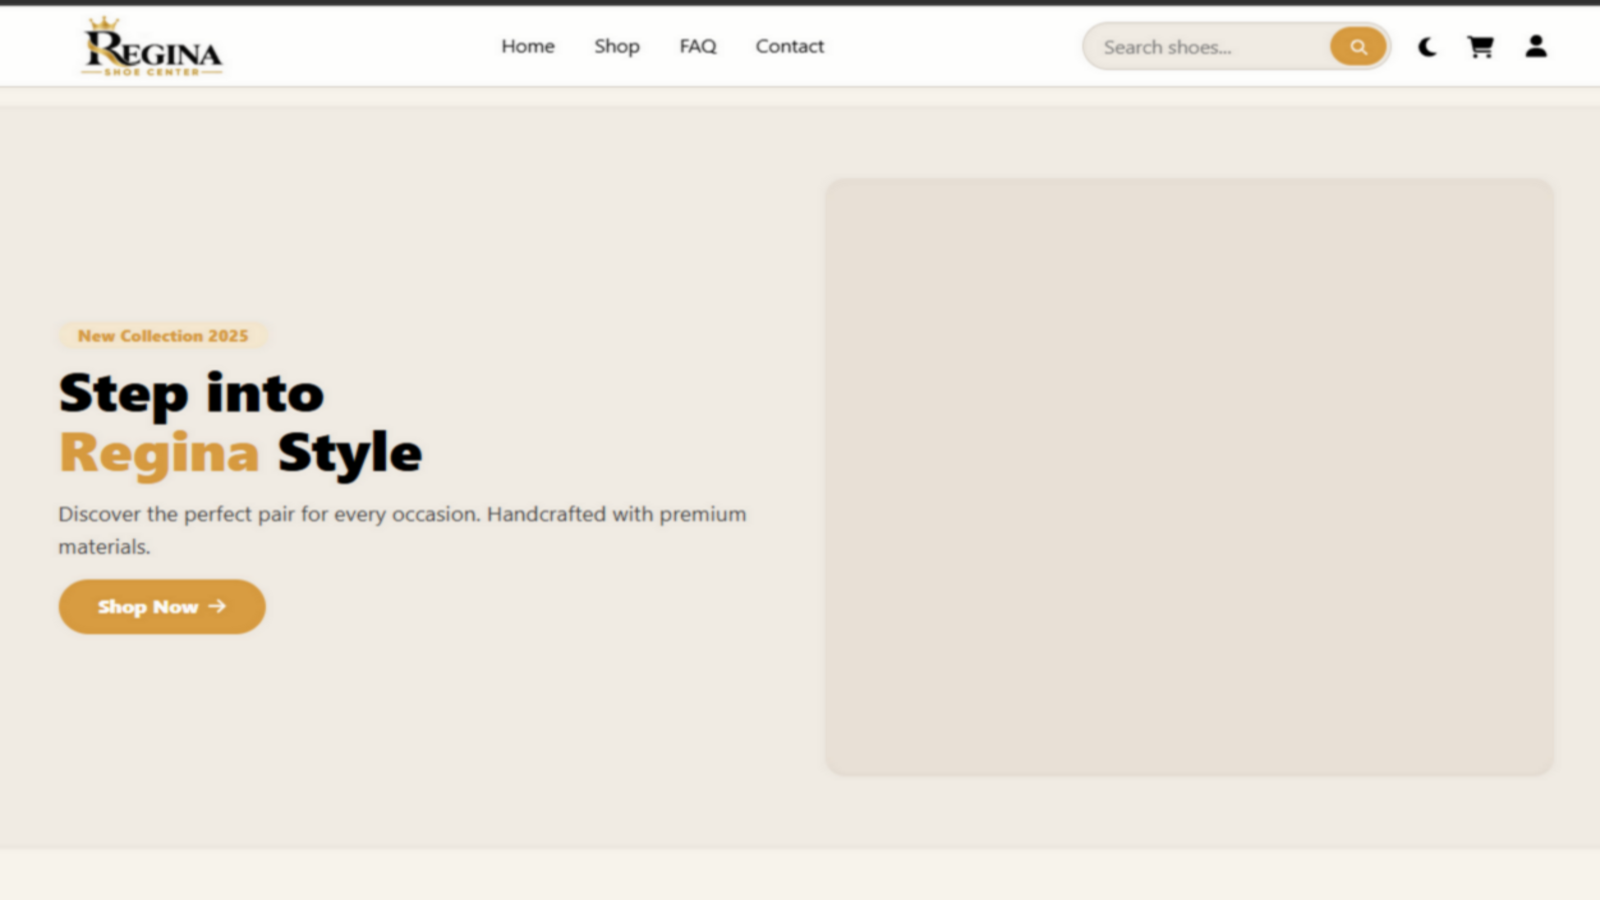
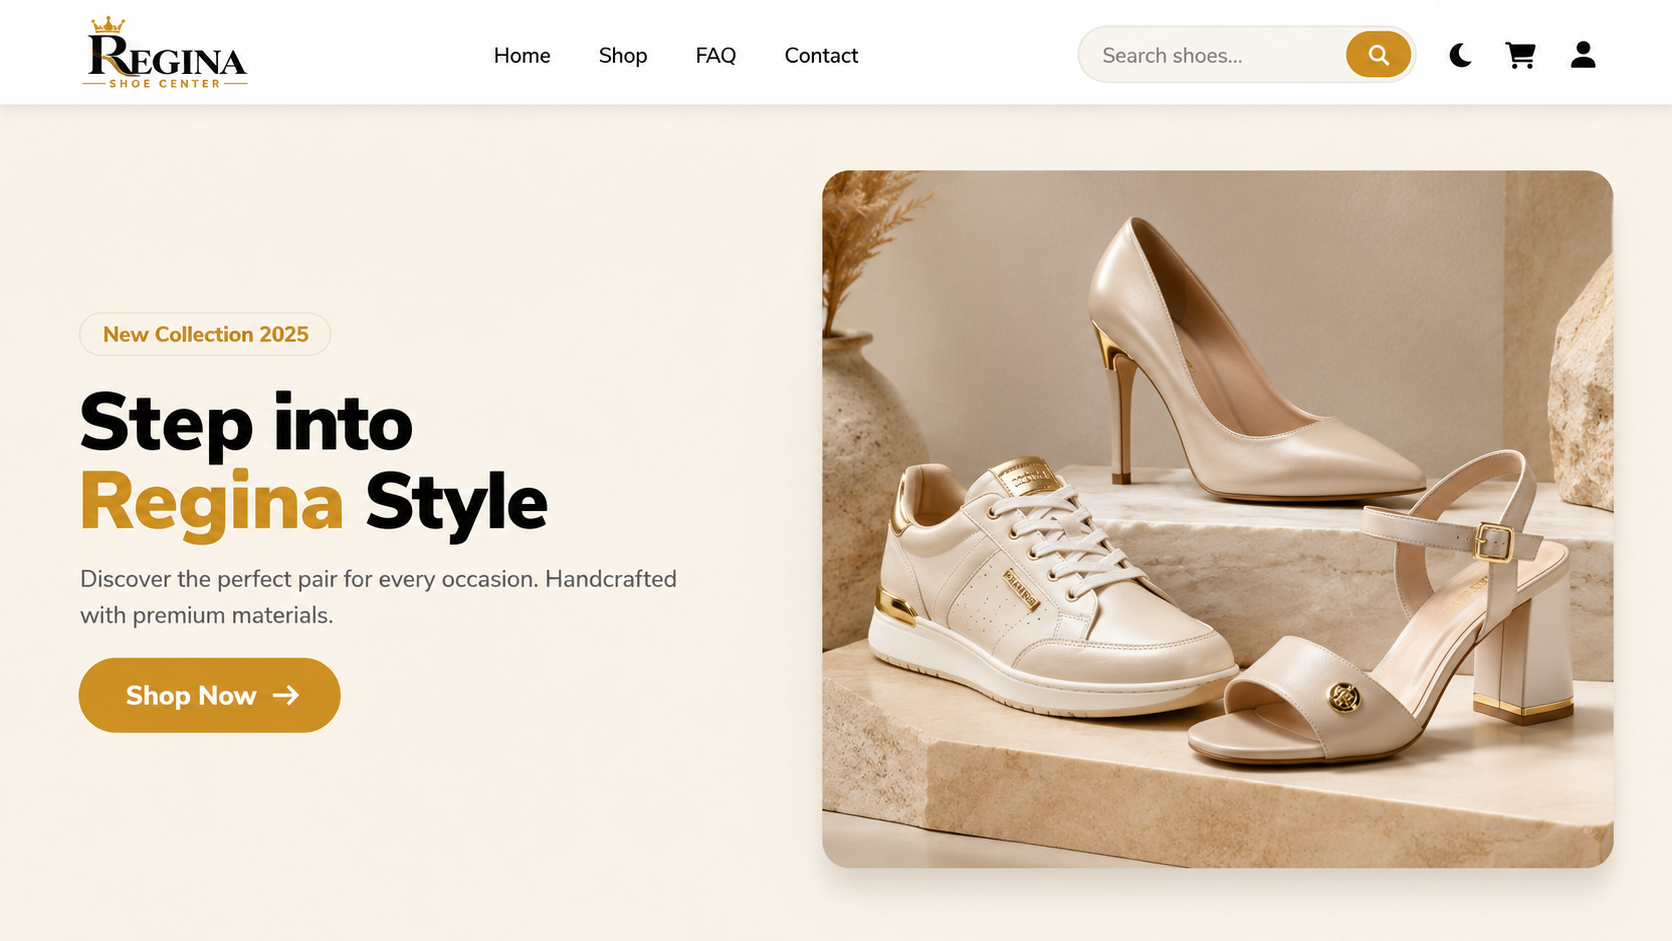
Portfolio

diff --git a/src/components/Projects.jsx b/src/components/Projects.jsx
@@ -1,108 +1,95 @@
 import React from "react";
 
 const PROJECTS = [
-    {
-        id: 1,
-        title: "Jr Editz - Anime Editing Tutorials",
-        description:
-            "Jreditz is dedicated to teaching anime video editing, manga panel animation, and creative VFX for beginners and pros. With step-by-step tutorials and free resources, we help editors bring their ideas to life.",
-        image: "assets/images/projects/jr-editz.png",
-        techStack: ["HTML", "CSS", "Javascript"],
-        liveUrl: "https://jreditz.netlify.app/",
-        githubUrl: "https://github.com/yamanjrexe/JrEditz",
-        status: "live",
-    },
-    {
-        id: 2,
-        title: "AniPulse - Anime Tracker",
-        description:
-            "AniPulse is a modern, feature-rich anime tracker that helps you manage your watchlist, track progress, analyze detailed statistics, and celebrate your anime journey.",
-        image: "assets/images/projects/ani-pulse.png",
-        techStack: ["React", "CSS", "Node.js", "Firebase", "AnilistAPI"],
-        liveUrl: "https://ani-pulse.netlify.app/",
-        githubUrl: "https://github.com/yamanjrexe/AniPulse",
-        status: "live",
-    },
-    {
-        id: 3,
-        title: "Regina Shoe Center - E-commerce Website",
-        description:
-            "Regina Shoe Center is a modern e-commerce platform for selling shoes online. With a user-friendly interface and seamless shopping experience, customers can easily browse, select, and purchase their favorite footwear.",
-        image: "assets/images/projects/regina-shoe.png",
-        techStack: [
-            "HTML",
-            "CSS",
-            "Javascript",
-            "React",
-            "Node.js",
-            "Firebase",
-        ],
-        liveUrl: "#",
-        githubUrl: "https://github.com/yamanjrexe/Reginashoecenter",
-        status: "development",
-    },
-    {
-        id: 4,
-        title: "AniSora – Anime Streaming Platform",
-        description:
-            "AniSora is a full-featured anime streaming platform. It provides a seamless experience with a modern UI, high-quality streaming, and deep integration with AniList for watchlist synchronization.",
-        image: "assets/images/projects/ani-sora.png",
-        techStack: [
-            "React",
-            "Supabase",
-            "PostgreSQL",
-            "AniList API",
-            "OAuth 2.0",
-            "CSS",
-        ],
-        liveUrl: "#",
-        githubUrl: "https://github.com/yamanjrexe/AniSora",
-        status: "development",
-    },
-    {
-        id: 5,
-        title: "Edu Sphere",
-        description:
-            "Edu Sphere is a responsive educational web platform designed to deliver interactive learning resources through a clean and user-friendly interface.",
-        image: "assets/images/projects/edu-sphere.png",
-        techStack: ["HTML", "JS", "CSS"],
-        liveUrl: "https://edu-sphere1.netlify.app/",
-        githubUrl: "https://github.com/yamanjrexe/edusphere",
-        status: "live",
-    },
-    {
-        id: 6,
-        title: "Portfolio Site",
-        description:
-            "The site you're on. A custom React portfolio featuring a sleek dark aesthetic, smooth GSAP scroll animations, and a fully responsive layout. Built with modern web standards to showcase my projects, skills, and creative work.",
-        image: "assets/images/projects/portfolio.png",
-        techStack: ["React", "CSS", "GSAP", "AOS"],
-        liveUrl: "https://yamanchapagain.com.np",
-        githubUrl: "https://github.com/yamanjrexe/portfolio",
-        status: "live",
-    },
-    {
-        id: 7,
-        title: "Tic Tac Toe",
-        description:
-            "Browser game with a Minimax-powered AI opponent, three difficulty levels, and match score tracking. Scores and the last 20 matches persist between visits using localStorage.",
-        image: "assets/images/projects/tic-tac-toe.png",
-        techStack: ["HTML", "CSS", "JavaScript"],
-        liveUrl: "https://yamanjrexe.github.io/Tic-Tac-Toe",
-        githubUrl: "https://github.com/yamanjrexe/Tic-Tac-Toe",
-        status: "live",
-    },
-    {
-        id: 8,
-        title: "The Cube",
-        description:
-            "A browser-based Rubik's cube you can twist with a mouse or touch. Supports 2x2 through 5x5, three flip animations, camera FOV control, a scramble generator, and five color themes with an HSL editor.",
-        image: "assets/images/projects/the-cube.png",
-        techStack: ["JavaScript", "Three.js", "CSS"],
-        liveUrl: "https://yamanjrexe.github.io/The-Cube",
-        githubUrl: "https://github.com/yamanjrexe/The-Cube",
-        status: "live",
-    },
+  {
+    id: 1,
+    title: "Jr Editz - Anime Editing Tutorials",
+    description:
+      "Jreditz is dedicated to teaching anime video editing, manga panel animation, and creative VFX for beginners and pros. With step-by-step tutorials and free resources, we help editors bring their ideas to life.",
+    image: "assets/images/projects/jr-editz.png",
+    techStack: ["HTML", "CSS", "Javascript"],
+    liveUrl: "https://jreditz.netlify.app/",
+    githubUrl: "https://github.com/yamanjrexe/JrEditz",
+    status: "live",
+  },
+  {
+    id: 2,
+    title: "AniPulse - Anime Tracker",
+    description:
+      "AniPulse is a modern, feature-rich anime tracker that helps you manage your watchlist, track progress, analyze detailed statistics, and celebrate your anime journey.",
+    image: "assets/images/projects/ani-pulse.png",
+    techStack: ["React", "CSS", "Node.js", "Firebase", "AnilistAPI", "TmdAPI"],
+    liveUrl: "https://ani-pulse.netlify.app/",
+    githubUrl: "https://github.com/yamanjrexe/AniPulse",
+    status: "live",
+  },
+  {
+    id: 3,
+    title: "Regina Shoe Center - E-commerce Website",
+    description:
+      "Regina Shoe Center is a modern e-commerce platform for selling shoes online. With a user-friendly interface and seamless shopping experience, customers can easily browse, select, and purchase their favorite footwear.",
+    image: "assets/images/projects/regina-shoe.png",
+    techStack: ["HTML", "CSS", "Javascript", "React", "Node.js", "Firebase"],
+    liveUrl: "#",
+    githubUrl: "https://github.com/yamanjrexe/Reginashoecenter",
+    status: "development",
+  },
+  {
+    id: 4,
+    title: "Edu Sphere",
+    description:
+      "Edu Sphere is a responsive educational web platform designed to deliver interactive learning resources through a clean and user-friendly interface.",
+    image: "assets/images/projects/edu-sphere.png",
+    techStack: ["HTML", "JS", "CSS"],
+    liveUrl: "https://edu-sphere1.netlify.app/",
+    githubUrl: "https://github.com/yamanjrexe/edusphere",
+    status: "live",
+  },
+  {
+    id: 5,
+    title: "Portfolio Site",
+    description:
+      "The site you're on. A custom React portfolio featuring a sleek dark aesthetic, smooth GSAP scroll animations, and a fully responsive layout. Built with modern web standards to showcase my projects, skills, and creative work.",
+    image: "assets/images/projects/portfolio.png",
+    techStack: ["React", "CSS", "GSAP", "AOS"],
+    liveUrl: "https://yamanchapagain.com.np",
+    githubUrl: "https://github.com/yamanjrexe/portfolio",
+    status: "live",
+  },
+  {
+    id: 6,
+    title: "Tic Tac Toe",
+    description:
+      "Browser game with a Minimax-powered AI opponent, three difficulty levels, and match score tracking. Scores and the last 20 matches persist between visits using localStorage.",
+    image: "assets/images/projects/tic-tac-toe.png",
+    techStack: ["HTML", "CSS", "JavaScript"],
+    liveUrl: "https://yamanjrexe.github.io/Tic-Tac-Toe",
+    githubUrl: "https://github.com/yamanjrexe/Tic-Tac-Toe",
+    status: "live",
+  },
+  {
+    id: 7,
+    title: "The Cube",
+    description:
+      "A browser-based Rubik's cube you can twist with a mouse or touch. Supports 2x2 through 5x5, three flip animations, camera FOV control, a scramble generator, and five color themes with an HSL editor.",
+    image: "assets/images/projects/the-cube.png",
+    techStack: ["JavaScript", "Three.js", "CSS"],
+    liveUrl: "https://yamanjrexe.github.io/The-Cube",
+    githubUrl: "https://github.com/yamanjrexe/The-Cube",
+    status: "live",
+  },
+
+  {
+    id: 8,
+    title: "Ironvale - Survive The Raiders",
+    description:
+      "Ironvale - Survive The Raiders is a 3D voxel-style survival and tower-defense game built with Three.js. Fight endless waves of dangerous raiders, defend yourself using swords, axes, and shields, mine resources, construct defensive structures, and upgrade your weapons and armor at the Forge. Featuring progressively challenging enemy AI, multiple enemy types, wave-based survival, RPG-style progression, and a persistent save system.",
+    image: "assets/images/projects/ironvale.png",
+    techStack: ["HTML", "CSS", "JavaScript", "Three.js"],
+    liveUrl: "#",
+    githubUrl: "https://github.com/yamanjrexe/Ironvale",
+    status: "development",
+  },
 ];
 
 export default function Projects() {

diff --git a/src/components/About.jsx b/src/components/About.jsx
@@ -33,7 +33,7 @@ export default function About() {
                                 <img
                                     className="tw-anim-img w-100 tw-rounded-lg"
                                     data-animate="true"
-                                    src="assets/images/me/yaman.png"
+                                    src="assets/images/me/yaman.jpg"
                                     alt="Yaman Chapagain About"
                                     style={{
                                         objectFit: "cover",
